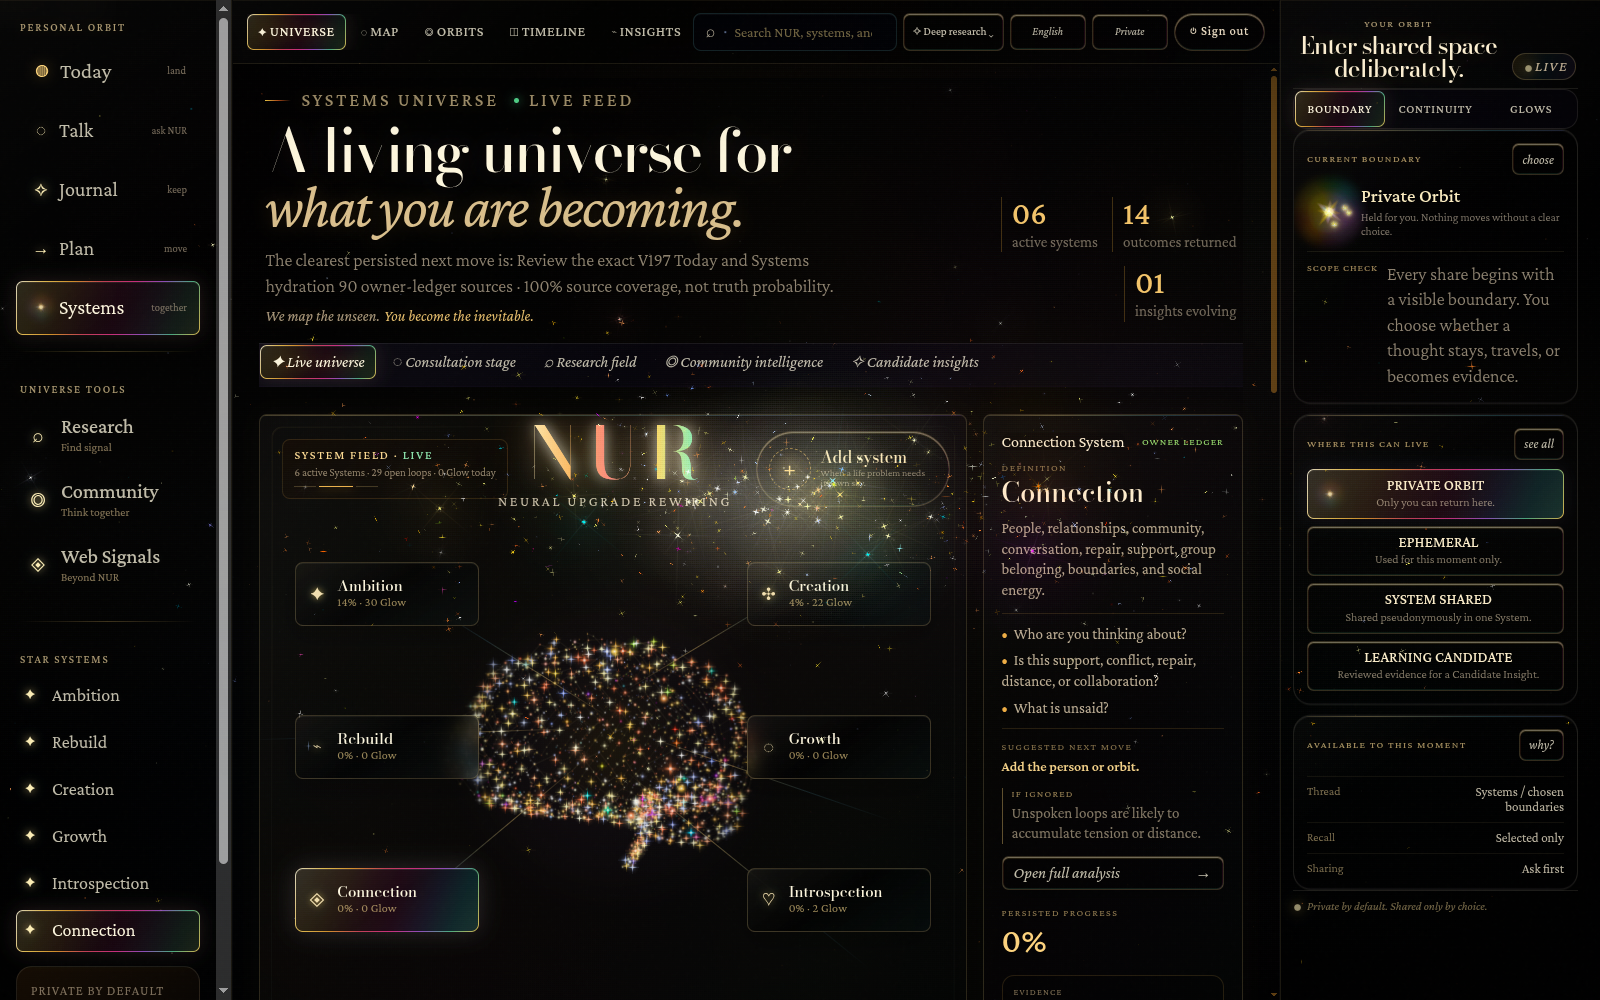
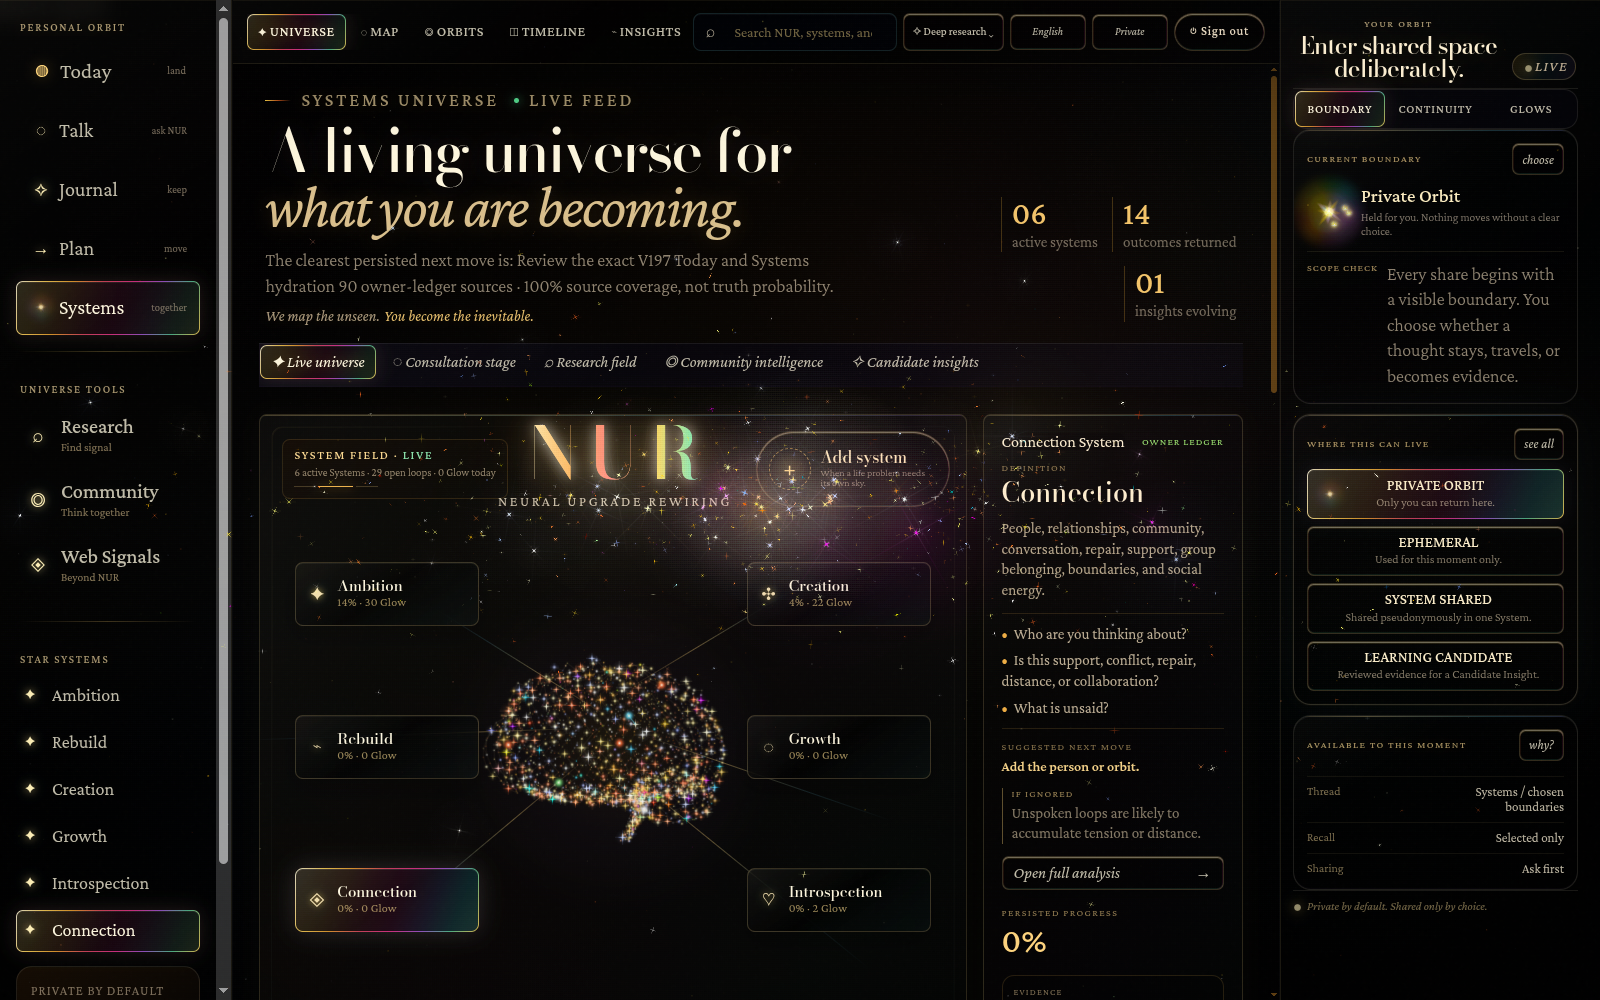
fix(v197): match the universe background to Entry exactly
Measured, the two stages did not read as one room:

  Entry     rgb(0, 0, 0)         no background image
  Systems   rgba(0, 0, 0, 0.7)   plus a warm gold radial wash on #page-systems,
                                 and a second radial on .nur-shell

The universe now carries the same pure black Entry does, with the wash removed,
so the same star field shows through both at the same value. Gold stays on the
panel rims and accents, where it belongs, rather than as a full-bleed tint only
one stage had.

Two stylesheet attempts failed before this one, and both are worth recording.
Canonical declares these surfaces by id under the same `body.universe-edition`
prefix, so a matching selector ties on specificity and the outcome depends on
injection order; adding `.nur-viewport` to outrank it also lost. Verified after
each attempt by reading the computed style out of the running frame rather than
assuming the rule had landed — `#page-systems` still computed rgba(0,0,0,0.7)
both times.

Applied inline with `important` instead, which cannot be outranked. That is the
pattern already used in this file for the sign-out control, for the same reason.

Verified: `#page-systems` computes rgba(0,0,0,0) with no background image, and
the stage body computes rgb(0,0,0) — identical to Entry.

web unit 65/65.

Changed region(s): [[0.2812, 0.62, 0.4688, 0.868], [0.4062, 0.434, 0.5938, 0.589], [0.625, 0.465, 0.6562, 0.496]]

diff --git a/apps/web/src/styles/v197-holographic.css b/apps/web/src/styles/v197-holographic.css
@@ -458,10 +458,42 @@ body.universe-edition #journal-input::-webkit-scrollbar-track {
    The page keeps its own stacking and its panels keep their glass; only the
    full-bleed wash is removed, so stars stay visible behind and through the
    interface. */
+/* ID-level specificity: canonical styles these by id, so a class-only selector
+   lost the cascade and the wash stayed. Measured before this rule:
+   `#page-systems` still computed `rgba(0, 0, 0, 0.7)`.
+
+   Entry and the universe must read as one room. Measured, they did not:
+
+     Entry     rgb(0, 0, 0)          no background image
+     Systems   rgba(0, 0, 0, 0.7)    plus a warm gold radial wash, and a second
+                                     radial on .nur-shell
+
+   The universe now matches Entry exactly — pure black, no wash — so the same
+   star field shows through both at the same value. The gold stays where it
+   belongs, on the panel rims and accents, rather than as a full-bleed tint that
+   only one of the two stages had. */
+/* Canonical declares `body.universe-edition #page-systems` itself, so a matching
+   selector ties on specificity and the outcome depends on injection order. These
+   add `.nur-viewport` to outrank it outright rather than rely on that. */
+body.universe-edition .nur-viewport #page-today,
+body.universe-edition .nur-viewport #page-talk,
+body.universe-edition .nur-viewport #page-journal,
+body.universe-edition .nur-viewport #page-plan,
+body.universe-edition .nur-viewport #page-systems,
+body.universe-edition .nur-viewport .nur-page,
 body.universe-edition .nur-page,
 body.universe-edition .nur-page.active,
-body.universe-edition .universe-page-shell {
+body.universe-edition .universe-page-shell,
+body.universe-edition .nur-shell,
+body.universe-edition .nur-main,
+body.universe-edition .nur-viewport {
   background-color: transparent !important;
+  background-image: none !important;
+}
+
+/* The stage itself carries the black, exactly as Entry's body does. */
+body.universe-edition {
+  background-color: rgb(0, 0, 0) !important;
   background-image: none !important;
 }
 

diff --git a/apps/web/src/bridge/v197Polish.ts b/apps/web/src/bridge/v197Polish.ts
@@ -177,6 +177,36 @@ export function ensureV197EntryPolish(document: Document): HTMLStyleElement {
   return style;
 }
 
+
+/**
+ * Match the universe background to Entry exactly.
+ *
+ * Measured: Entry's body is `rgb(0, 0, 0)` with no background image, while
+ * `#page-systems` computed `rgba(0, 0, 0, 0.7)` plus a warm gold radial wash,
+ * and `.nur-shell` carried a second radial. The two stages did not read as one
+ * room, and that black sheet also dimmed the star field behind the panels.
+ *
+ * Canonical declares these by id under the same `body.universe-edition` prefix,
+ * so a stylesheet rule ties on specificity and the winner depends on injection
+ * order; raising specificity further still lost. Inline `important` is the
+ * pattern already used here for the sign-out control, for the same reason, and
+ * it cannot be outranked.
+ */
+function matchUniverseBackgroundToEntry(document: Document): void {
+  const surfaces = document.querySelectorAll<HTMLElement>(
+    ".nur-page, .universe-page-shell, .nur-shell, .nur-main, .nur-viewport",
+  );
+  for (const surface of surfaces) {
+    surface.style.setProperty("background-color", "transparent", "important");
+    surface.style.setProperty("background-image", "none", "important");
+  }
+  const body = document.body;
+  if (body) {
+    body.style.setProperty("background-color", "rgb(0, 0, 0)", "important");
+    body.style.setProperty("background-image", "none", "important");
+  }
+}
+
 export function ensureV197PremiumPolish(document: Document): HTMLStyleElement {
   const style = installPresentationStyle(
     document,
@@ -190,6 +220,7 @@ export function ensureV197PremiumPolish(document: Document): HTMLStyleElement {
   relocateSystemsMantra(document);
   labelCompactTopbarControls(document);
   labelOwnerSignOutControl(document);
+  matchUniverseBackgroundToEntry(document);
   ensureV197BlackGalaxy(document);
   ensureV197StarBrain(document);
   return style;
